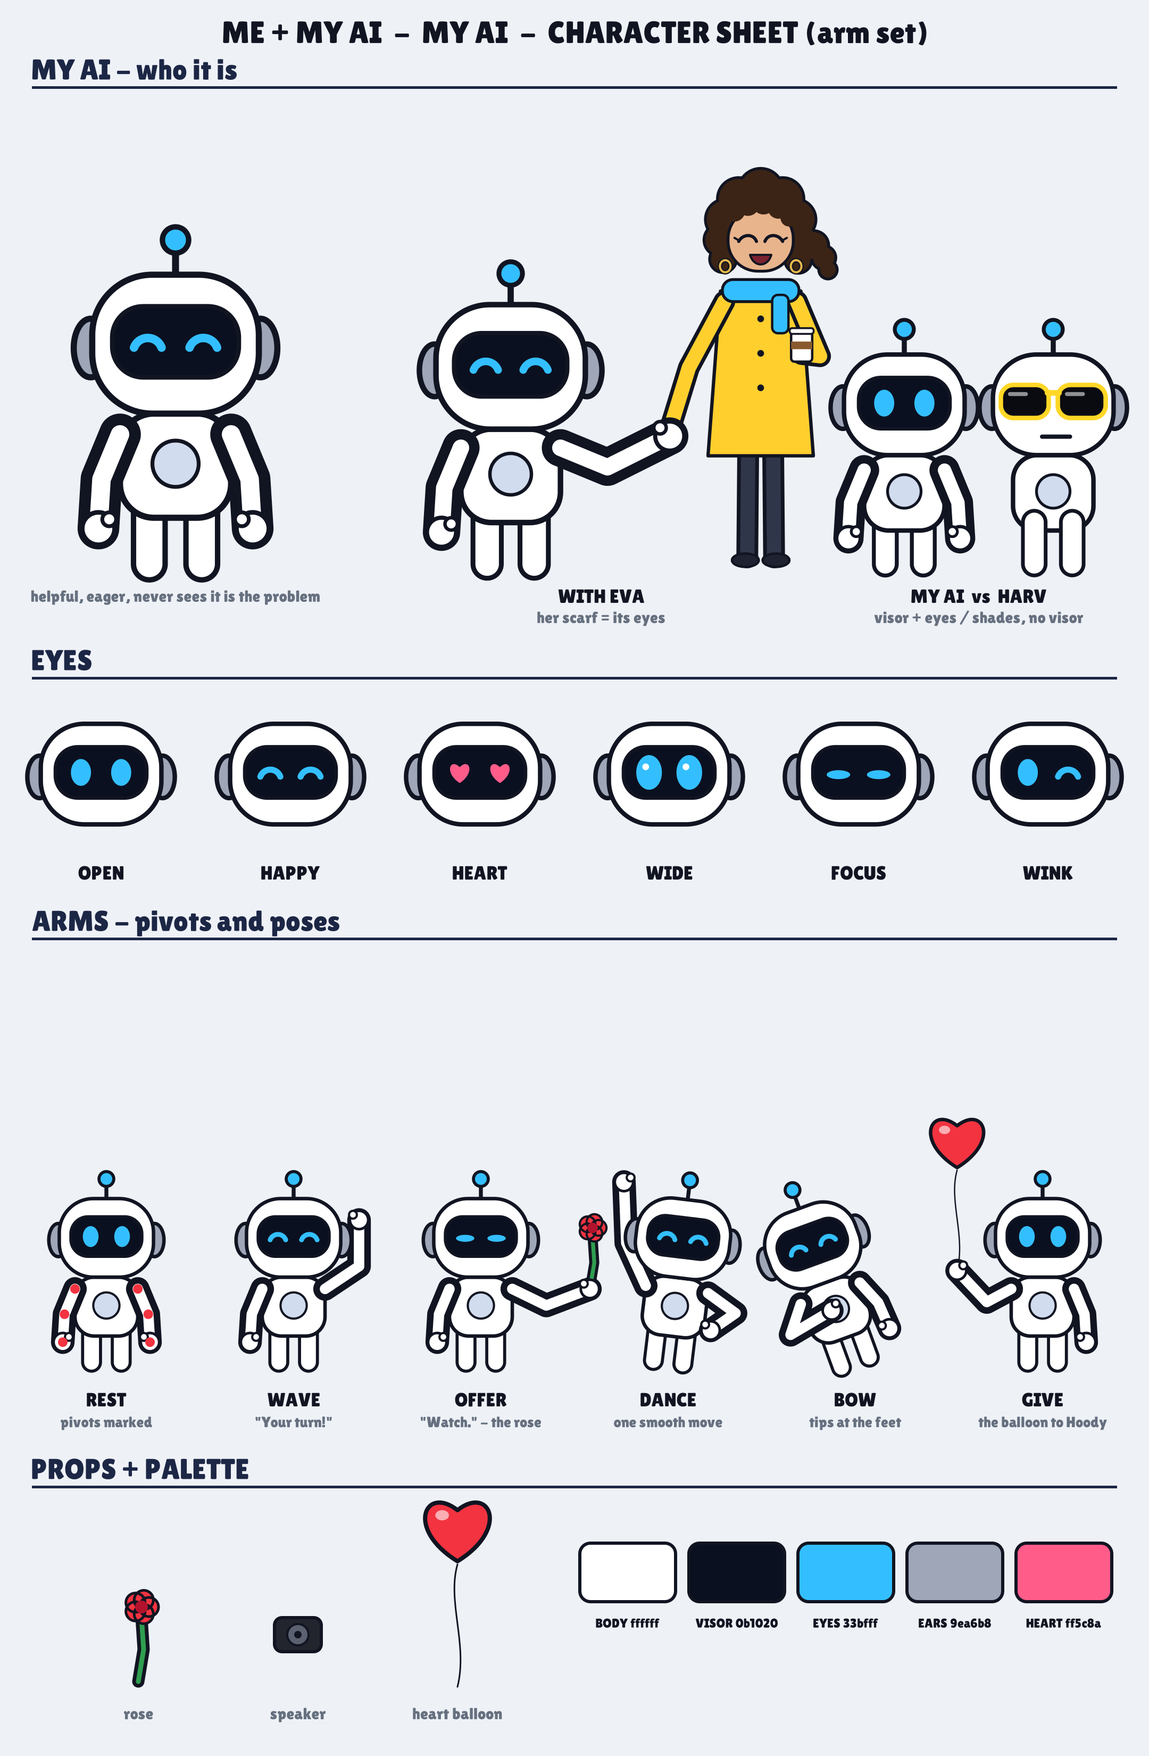
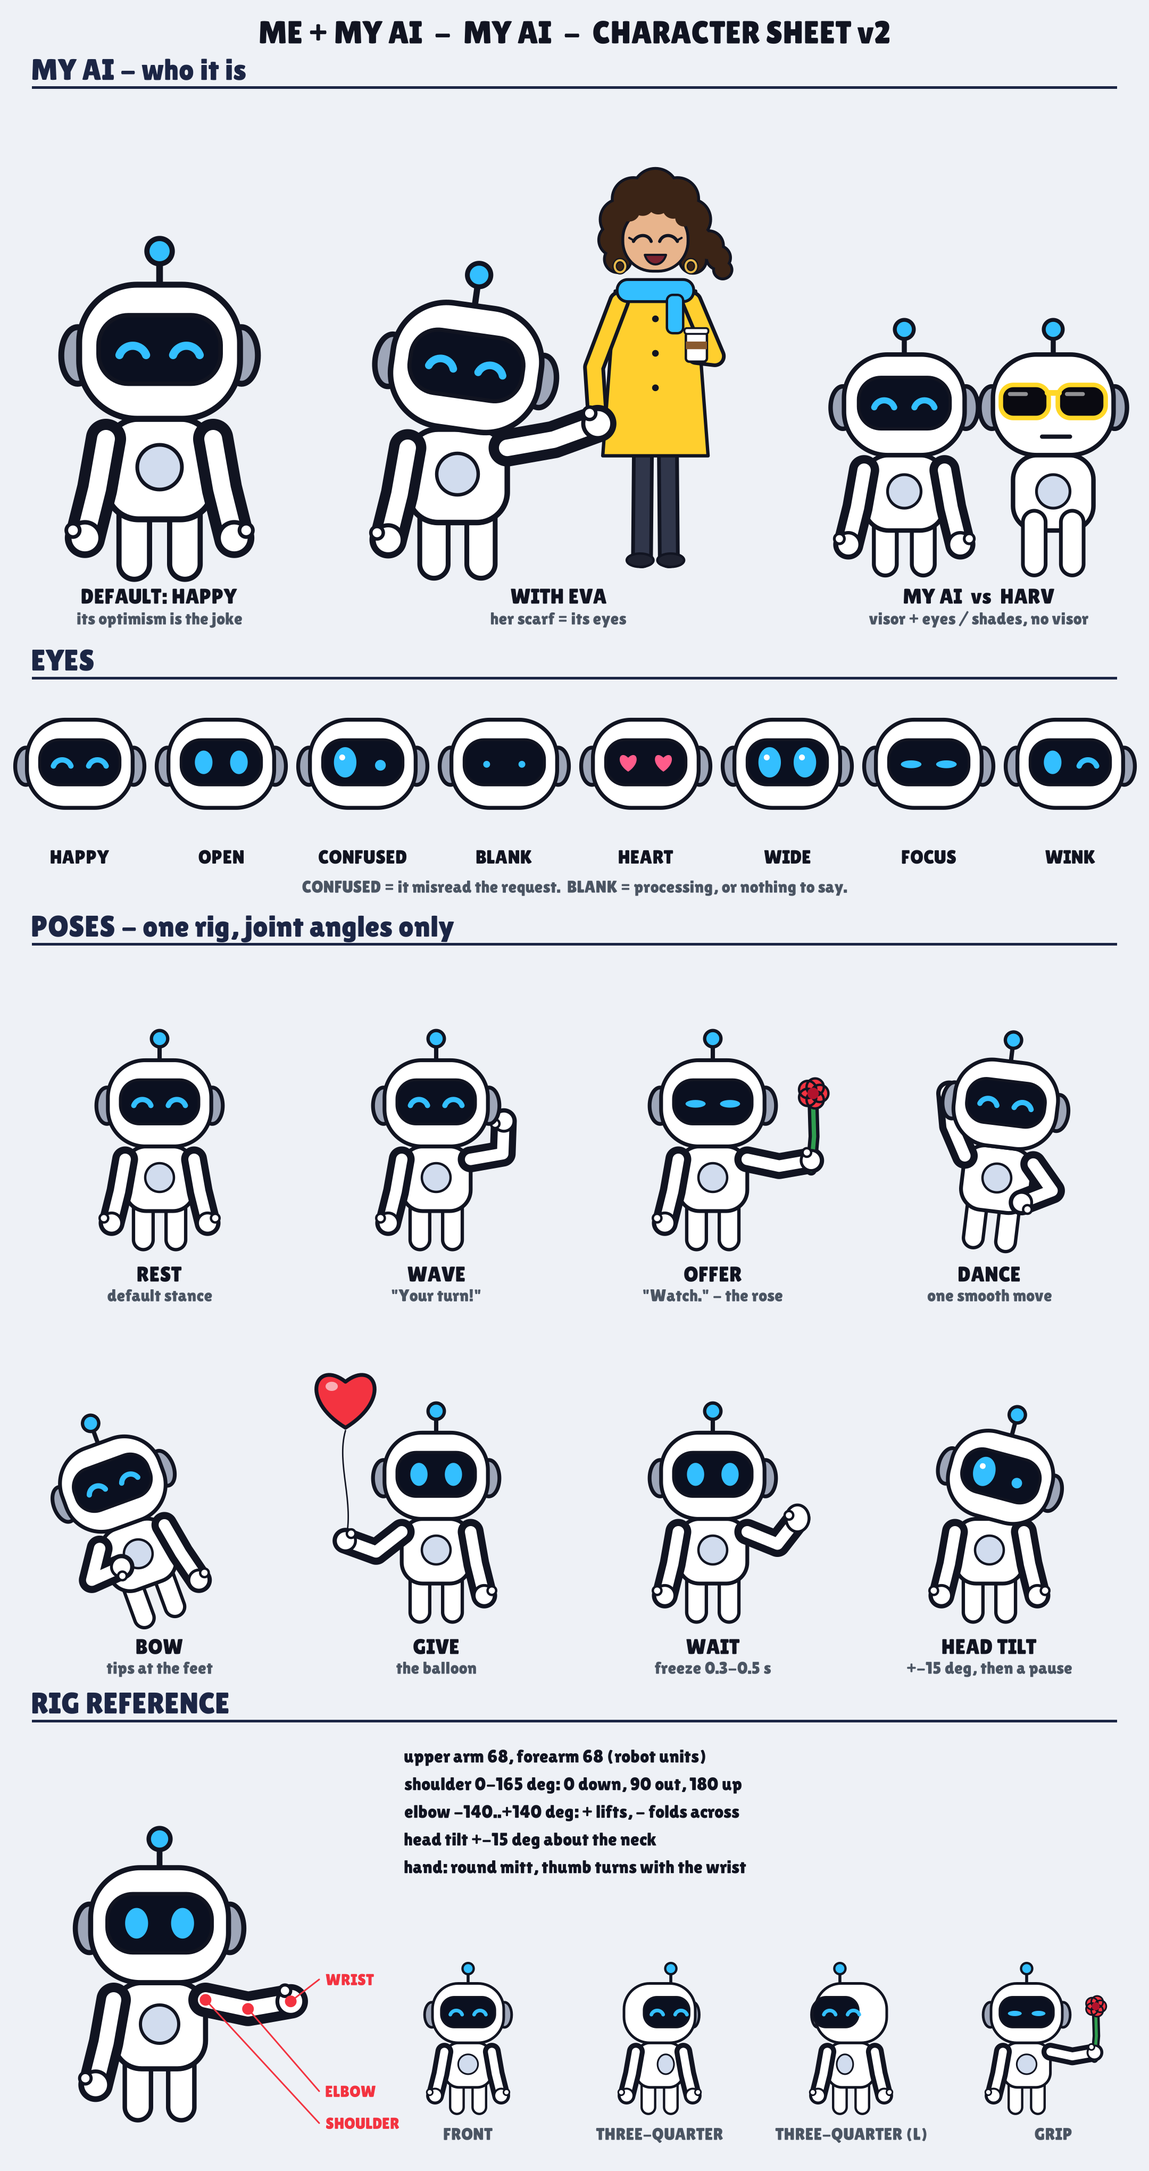
MY AI v2: a fixed arm rig, confused and blank eyes, head tilt, wait pose, three-quarter turn
From an outside review, plus a fault it pointed to: v1 placed each elbow and hand by hand, so
total arm length ran 127-247 units across poses. v2 is a two-segment rig (68 + 68) posed by joint
angles with limits (shoulder 0-165, elbow -140..140, head tilt +-15), so every pose is 136.
Adds CONFUSED and BLANK eyes, WAIT and HEAD TILT poses, a three-quarter turn, a rig reference with
joints and limits, and a grip example. Eva's hand-hold now lands exactly on his hand (hand_to).

Claude-Session: https://claude.ai/code/session_01ED8DLRS3kXn1pdhXqYBM3Q

diff --git a/perfect-date/characters/myai.py b/perfect-date/characters/myai.py
@@ -1,6 +1,8 @@
-"""MY AI - Hoody's companion robot, with the arm set Perfect Date needs.
-Body, head and legs are the robot from whos-a-good-boy/v3/v.py (same proportions and colours); arms, eye shapes and props are new.
-All poses use fixed pivots in robot units: shoulders at (+-72, 112), elbow, hand. Writes myai_sheet.png."""
+"""MY AI v2 - Hoody's companion robot, with the arm set Perfect Date needs.
+Body, head and legs are the robot from whos-a-good-boy/v3/v.py (same proportions and colours).
+v2: arms are a fixed two-segment rig (upper arm 68, forearm 68, from shoulders at +-72, 112), posed by joint angles,
+so arm length can't drift between shots; CONFUSED and BLANK eyes; head tilt; a WAIT pose; a three-quarter turn.
+Writes myai_sheet.png."""
 import os, sys, math, cairo
 HERE = os.path.dirname(os.path.abspath(__file__)); ROOT = os.path.join(HERE, '..', '..')
 sys.path.insert(0, os.path.join(HERE, '..')); sys.path.insert(0, HERE)
@@ -9,28 +11,43 @@ from kit import INK, WHITE, NAVY, RED, rr, fs, ell, limb, txt, hx
 import eva as E
 
 EYE = hx('33bfff'); VISOR = hx('0b1020'); EARS = (.62, .65, .72); CHEST = (.82, .86, .93); PINK = hx('ff5c8a')
-SHOULDER = 72, 112
-ARM_W = 24
-POSES = {   # per side, for q = +1 (the robot's left = screen right); x is mirrored by q
-    'down':  ((96, 170), (100, 234)),
-    'wave':  ((150, 60), (150, -46)),
-    'offer': ((150, 150), (250, 112)),
-    'up':    ((128, 20), (150, -118)),
-    'hip':   ((140, 150), (88, 196)),
-    'hold':  ((132, 184), (204, 226)),
-    'give':  ((128, 142), (196, 70)),
-    'chest': ((118, 170), (10, 150)),
-    'hold2': ((140, 140), (230, 95)),
+SHOULDER = (72, 112); L1 = L2 = 68; ARM_W = 24; HAND_R = 21
+NECK = (0, 85)                       # the head tilts about this point
+LIMITS = dict(shoulder=(0, 165), elbow=(-140, 140), tilt=(-15, 15))
+# pose = (shoulder angle, elbow bend) in degrees. Shoulder: 0 = arm straight down, 90 = straight out to the side,
+# 180 = straight up. Elbow: bend relative to the upper arm; + lifts the forearm outward/up, - folds it back across the body.
+POSES = {
+    'down':  (10, 4),     'hold':  (34, 8),     'hold2': (100, 10),
+    'offer': (78, 22),    'give':  (52, 58),    'wave':  (100, 78),
+    'wait':  (68, 74),    'up':    (150, 18),   'hip':   (42, -104),
+    'chest': (34, -128),
 }
+
+def arm_points(q, pose):
+    a1, a2 = POSES[pose] if isinstance(pose, str) else pose
+    a1 = max(LIMITS['shoulder'][0], min(LIMITS['shoulder'][1], a1)); a2 = max(LIMITS['elbow'][0], min(LIMITS['elbow'][1], a2))
+    t1 = math.radians(a1); t2 = math.radians(a1 + a2)
+    sx, sy = q * SHOULDER[0], SHOULDER[1]
+    ex, ey = sx + q * L1 * math.sin(t1), sy + L1 * math.cos(t1)
+    hx_, hy = ex + q * L2 * math.sin(t2), ey + L2 * math.cos(t2)
+    return (sx, sy), (ex, ey), (hx_, hy), t2
+
+def hand_at(x, gy, s, q, pose):
+    """Screen position of a hand, for lining up props and other characters (e.g. Eva's hand in his)."""
+    _, _, (hx_, hy), _ = arm_points(q, pose)
+    return x + hx_ * s, gy - 280 * s + hy * s
 
 def eyes(c, mode, look=(0, 0)):
     gx, gy = look
     for q in (-1, 1):
         m = mode
         if mode == 'wink': m = 'happy' if q == 1 else 'open'
+        if mode == 'confused': m = 'wide' if q == -1 else 'small'
         x, y = q * 36 + gx, -8 + gy
         if m == 'open':  ell(c, x, y, 18, 24); c.set_source_rgb(*EYE); c.fill()
         elif m == 'wide': ell(c, x, y, 23, 31); c.set_source_rgb(*EYE); c.fill(); ell(c, x - 6, y - 10, 6, 6); c.set_source_rgb(1, 1, 1); c.fill()
+        elif m == 'small': ell(c, x, y + 6, 11, 11); c.set_source_rgb(*EYE); c.fill()
+        elif m == 'blank': ell(c, x, y + 4, 7, 7); c.set_source_rgb(*EYE); c.fill()
         elif m == 'focus': ell(c, x, y + 4, 21, 8); c.set_source_rgb(*EYE); c.fill()
         elif m == 'happy':
             c.arc(x, y + 14, 19, math.pi + .35, 2 * math.pi - .35); c.set_source_rgb(*EYE); c.set_line_width(11); c.set_line_cap(cairo.LINE_CAP_ROUND); c.stroke()
@@ -39,36 +56,48 @@ def eyes(c, mode, look=(0, 0)):
             c.move_to(0, 18); c.curve_to(-30, -2, -18, -30, 0, -12); c.curve_to(18, -30, 30, -2, 0, 18); c.close_path()
             c.set_source_rgb(*PINK); c.fill(); c.restore()
 
-def arm(c, q, pose, prop=None):
-    (ex, ey), (hx_, hy) = POSES[pose]
-    sx, sy = q * SHOULDER[0], SHOULDER[1]
-    pts = [(sx, sy), (q * ex, ey), (q * hx_, hy)]
-    limb(c, pts, ARM_W + 16, INK); limb(c, pts, ARM_W, WHITE)
-    if prop: prop(c, q * hx_, hy, q)
-    ell(c, q * hx_, hy, 21, 21); fs(c, WHITE, 6)
-    ell(c, q * hx_ - q * 14, hy - 12, 9, 9); fs(c, WHITE, 5)                # thumb nub
-    return q * hx_, hy
+def hand(c, x, y, t2, q, open_=False):
+    """Round mitt; the thumb nub sits off the forearm's line, so it turns with the wrist."""
+    if open_: ell(c, x, y, HAND_R + 3, HAND_R + 7)
+    else: ell(c, x, y, HAND_R, HAND_R)
+    fs(c, WHITE, 6)
+    tx, ty = x + q * math.cos(t2) * 18 - q * math.sin(t2) * 6, y - math.sin(t2) * 18 * q * q - math.cos(t2) * 6
+    ell(c, tx, ty, 9, 9); fs(c, WHITE, 5)
 
-def myai(c, x, gy, s, eye='open', look=(0, 0), arms=('down', 'down'), props=(None, None), rot=0, walk=None, bob=0):
-    """Standing on ground y. arms = (screen-left arm pose, screen-right arm pose). rot tips the whole robot about its feet (a bow is -.35)."""
+def arm(c, q, pose, prop=None):
+    s_, e_, h_, t2 = arm_points(q, pose)
+    limb(c, [s_, e_, h_], ARM_W + 16, INK); limb(c, [s_, e_, h_], ARM_W, WHITE)
+    if prop: prop(c, h_[0], h_[1], q)
+    hand(c, *h_, t2, q, open_=(pose == 'wait'))
+    return h_
+
+def myai(c, x, gy, s, eye='happy', look=(0, 0), arms=('down', 'down'), props=(None, None), rot=0, walk=None, bob=0, tilt=0, turn=0):
+    """Standing on ground y. arms = (screen-left pose, screen-right pose). rot tips the whole robot about its feet (bow: -.35).
+    tilt: head tilt in degrees (limit +-15). turn: -1..1, a three-quarter turn (visor and antenna slide, far ear hides)."""
+    tilt = max(LIMITS['tilt'][0], min(LIMITS['tilt'][1], tilt))
     c.save(); c.translate(x, gy); c.rotate(rot); c.translate(0, -280 * s - bob); c.scale(s, s); c.set_line_cap(cairo.LINE_CAP_ROUND)
     a = math.sin(walk) * 26 if walk is not None else 0
     limb(c, [(-34, 205), (-34 - a, 280)], 34, WHITE); limb(c, [(34, 205), (34 + a, 280)], 34, WHITE)
     rr(c, -72, 85, 144, 135, 44); fs(c, WHITE)
-    ell(c, 0, 150, 30, 30); fs(c, CHEST, 5)
-    hands = [arm(c, q, p, pr) for q, p, pr in zip((-1, 1), arms, props)]
-    c.move_to(0, -90); c.line_to(0, -132); c.set_source_rgb(*INK); c.set_line_width(9); c.stroke()
-    ell(c, 0, -140, 17, 17); fs(c, EYE, 7)
-    for q in (-1, 1): ell(c, q * 110, 0, 22, 38); fs(c, EARS, 8)
+    ell(c, turn * 22, 150, 30 - abs(turn) * 6, 30); fs(c, CHEST, 5)
+    for q, p, pr in zip((-1, 1), arms, props): arm(c, q, p, pr)
+    c.save(); c.translate(*NECK); c.rotate(math.radians(tilt)); c.translate(-NECK[0], -NECK[1])
+    ax = turn * 40
+    c.move_to(ax, -90); c.line_to(ax, -132); c.set_source_rgb(*INK); c.set_line_width(9); c.stroke()
+    ell(c, ax, -140, 17, 17); fs(c, EYE, 7)
+    for q in (-1, 1):
+        if turn * q < -.5: continue                                  # far ear hidden in a three-quarter view
+        ell(c, q * 110 - turn * 10, 0, 22 - abs(turn) * 4 * (q == (1 if turn > 0 else -1)), 38); fs(c, EARS, 8)
     rr(c, -108, -95, 216, 180, 78); fs(c, WHITE)
-    rr(c, -82, -54, 164, 92, 40); fs(c, VISOR, 6)
-    eyes(c, eye, look)
-    c.restore()
+    vx = turn * 40
+    rr(c, -82 + vx, -54, 164 - abs(turn) * 30, 92, 40); fs(c, VISOR, 6)
+    eyes(c, eye, (look[0] + turn * 34, look[1]))
+    c.restore(); c.restore()
 
 # ---------------- props ----------------
 def rose(c, x, y, q=1):
-    limb(c, [(x, y), (x + q * 10, y - 60), (x + q * 6, y - 120)], 9, hx('2f9e4f'))
-    c.save(); c.translate(x + q * 6, y - 140)
+    limb(c, [(x, y + 20), (x + q * 6, y - 50), (x + q * 4, y - 120)], 9, hx('2f9e4f'))
+    c.save(); c.translate(x + q * 4, y - 140)
     for i in range(5): a = i * 2 * math.pi / 5; ell(c, 14 * math.cos(a), 14 * math.sin(a), 18, 18)
     c.set_source_rgb(*RED); c.fill_preserve(); c.set_source_rgb(*INK); c.set_line_width(5); c.stroke()
     ell(c, 0, 0, 12, 12); c.set_source_rgb(*hx('b3122c')); c.fill(); c.restore()
@@ -82,59 +111,79 @@ def balloon(c, x, y, q=1):
     fs(c, RED, 5); ell(c, -18, -14, 8, 6); c.set_source_rgba(1, 1, 1, .6); c.fill(); c.restore()
 
 # ---------------- the sheet ----------------
-def label(c, s, x, y, size=38, col=INK): txt(c, s, x, y, size, col, lw=0)
-def section(c, s, y): txt(c, s, 60, y, 54, NAVY, lw=0, align='l'); c.rectangle(60, y + 32, 2040, 5); c.set_source_rgb(*NAVY); c.fill()
+GREYT = hx('4b5563')
+def label(c, s, x, y, size=40, col=INK): txt(c, s, x, y, size, col, lw=0)
+def sub(c, s, x, y): txt(c, s, x, y, 32, GREYT, lw=0)
+def section(c, s, y): txt(c, s, 60, y, 56, NAVY, lw=0, align='l'); c.rectangle(60, y + 32, 2040, 5); c.set_source_rgb(*NAVY); c.fill()
 
 def sheet(out='myai_sheet.png'):
-    W, H = 2160, 3300
+    W, H = 2160, 4080
     S = cairo.ImageSurface(cairo.FORMAT_RGB24, W, H); c = cairo.Context(S)
     c.set_source_rgb(*hx('eef1f6')); c.paint()
-    txt(c, 'ME + MY AI  -  MY AI  -  CHARACTER SHEET (arm set)', 1080, 60, 58, INK, lw=0)
+    txt(c, 'ME + MY AI  -  MY AI  -  CHARACTER SHEET v2', 1080, 60, 60, INK, lw=0)
     v9 = E.load_wgb(); import v as WV
 
     section(c, 'MY AI - who it is', 130)
-    myai(c, 330, 1060, 1.45, eye='happy')
-    label(c, 'helpful, eager, never sees it is the problem', 330, 1120, 30, hx('66707f'))
-    rs = 1.3; rx = 960; hand = (rx + 230 * rs, 1060 - 280 * rs + 95 * rs)            # hand in hand: her hand lands on his
-    E.eva(c, hand[0] + 190 * .9, 1060, .9, 'charmed', sip=.1, pose='holdlow')
-    myai(c, rx, 1060, rs, eye='happy', arms=('down', 'hold2'))
-    label(c, 'WITH EVA', 1130, 1120, 36); label(c, 'her scarf = its eyes', 1130, 1160, 30, hx('66707f'))
+    myai(c, 300, 1060, 1.4, eye='happy')
+    label(c, 'DEFAULT: HAPPY', 300, 1120); sub(c, 'its optimism is the joke', 300, 1162)
+    rs = 1.3; rx = 860; hp = hand_at(rx, 1060, rs, 1, 'hold2')                        # hand in hand: hers lands on his
+    E.eva(c, hp[0] + 40 + 76 * .9, 1060, .9, 'charmed', sip=.1, pose='holdlow', hand_to=hp)
+    myai(c, rx, 1060, rs, eye='happy', arms=('down', 'hold2'), tilt=8)
+    label(c, 'WITH EVA', 1050, 1120); sub(c, 'her scarf = its eyes', 1050, 1162)
     myai(c, 1700, 1060, 1.05); WV.robot(c, 1980, 1060 - 280 * 1.05, 1.05, boss=True)
-    my = 1060 - 280 * 1.05 + 52 * 1.05                                               # HARV never smiles: flat mouth
+    limb(c, [(1980 - 34 * 1.05, 1060 - 75 * 1.05), (1980 - 34 * 1.05, 1060)], 34 * 1.05, WHITE); limb(c, [(1980 + 34 * 1.05, 1060 - 75 * 1.05), (1980 + 34 * 1.05, 1060)], 34 * 1.05, WHITE)
+    my = 1060 - 280 * 1.05 + 52 * 1.05
     rr(c, 1980 - 26 * 1.05, my - 16 * 1.05, 70 * 1.05, 30 * 1.05, 8); c.set_source_rgb(*WHITE); c.fill()
     c.move_to(1980 - 20 * 1.05, my); c.line_to(1980 + 30 * 1.05, my); c.set_source_rgb(*INK); c.set_line_width(8); c.stroke()
-    limb(c, [(1980 - 34 * 1.05, 1060 - 75 * 1.05), (1980 - 34 * 1.05, 1060)], 34 * 1.05, WHITE); limb(c, [(1980 + 34 * 1.05, 1060 - 75 * 1.05), (1980 + 34 * 1.05, 1060)], 34 * 1.05, WHITE)
-    label(c, 'MY AI  vs  HARV', 1840, 1120, 36); label(c, 'visor + eyes / shades, no visor', 1840, 1160, 30, hx('66707f'))
+    label(c, 'MY AI  vs  HARV', 1840, 1120); sub(c, 'visor + eyes / shades, no visor', 1840, 1162)
 
     section(c, 'EYES', 1240)
-    for i, (m, a) in enumerate([('open', 'OPEN'), ('happy', 'HAPPY'), ('heart', 'HEART'), ('wide', 'WIDE'), ('focus', 'FOCUS'), ('wink', 'WINK')]):
-        x = 190 + i * 356
-        c.save(); c.translate(x, 1460); c.scale(1.05, 1.05)
+    for i, (m, a) in enumerate([('happy', 'HAPPY'), ('open', 'OPEN'), ('confused', 'CONFUSED'), ('blank', 'BLANK'),
+                                ('heart', 'HEART'), ('wide', 'WIDE'), ('focus', 'FOCUS'), ('wink', 'WINK')]):
+        x = 150 + i * 266
+        c.save(); c.translate(x, 1440); c.scale(.92, .92)
         for q in (-1, 1): ell(c, q * 110, 0, 22, 38); fs(c, EARS, 8)
         rr(c, -108, -95, 216, 180, 78); fs(c, WHITE); rr(c, -82, -54, 164, 92, 40); fs(c, VISOR, 6); eyes(c, m); c.restore()
-        label(c, a, x, 1640, 36)
+        label(c, a, x, 1610, 36)
+    sub(c, 'CONFUSED = it misread the request.  BLANK = processing, or nothing to say.', 1080, 1666)
 
-    section(c, 'ARMS - pivots and poses', 1730)
-    P = [(('down', 'down'), 'open', (None, None), 0, 'REST', 'pivots marked'),
-         (('down', 'wave'), 'happy', (None, None), 0, 'WAVE', '"Your turn!"'),
-         (('down', 'offer'), 'focus', (None, rose), 0, 'OFFER', '"Watch." - the rose'),
-         (('up', 'hip'), 'happy', (None, None), .12, 'DANCE', 'one smooth move'),
-         (('chest', 'down'), 'happy', (None, None), -.35, 'BOW', 'tips at the feet'),
-         (('give', 'down'), 'open', (balloon, None), 0, 'GIVE', 'the balloon to Hoody')]
-    for i, (arms, e, pr, rot, a, b) in enumerate(P):
-        x = 200 + i * 352
-        myai(c, x, 2560, .82, eye=e, arms=arms, props=pr, rot=rot)
-        if i == 0:
-            for (px, py) in ((-72, 112), (72, 112), (-96, 170), (96, 170), (-100, 234), (100, 234)):
-                ell(c, x + px * .82, 2560 - 280 * .82 + py * .82, 9, 9); c.set_source_rgb(*RED); c.fill()
-        label(c, a, x, 2630, 36); label(c, b, x, 2672, 28, hx('66707f'))
+    section(c, 'POSES - one rig, joint angles only', 1740)
+    P = [(('down', 'down'), 'happy', (None, None), 0, 0, 'REST', 'default stance'),
+         (('down', 'wave'), 'happy', (None, None), 0, 0, 'WAVE', '"Your turn!"'),
+         (('down', 'offer'), 'focus', (None, rose), 0, 0, 'OFFER', '"Watch." - the rose'),
+         (('up', 'hip'), 'happy', (None, None), .12, 0, 'DANCE', 'one smooth move'),
+         (('chest', 'down'), 'happy', (None, None), -.35, 0, 'BOW', 'tips at the feet'),
+         (('give', 'down'), 'open', (balloon, None), 0, 0, 'GIVE', 'the balloon'),
+         (('down', 'wait'), 'open', (None, None), 0, 0, 'WAIT', 'freeze 0.3-0.5 s'),
+         (('down', 'down'), 'confused', (None, None), 0, 15, 'HEAD TILT', '+-15 deg, then a pause')]
+    for i, (arms, e, pr, rot, tl, a, b) in enumerate(P):
+        col, row = i % 4, i // 4
+        x = 300 + col * 520; gy = 2330 + row * 700
+        myai(c, x, gy, .9, eye=e, arms=arms, props=pr, rot=rot, tilt=tl)
+        label(c, a, x, gy + 64); sub(c, b, x, gy + 104)
 
-    section(c, 'PROPS + PALETTE', 2760)
-    rose(c, 260, 3160); label(c, 'rose', 260, 3220, 30, hx('66707f'))
-    speaker(c, 560, 3080); label(c, 'speaker', 560, 3220, 30, hx('66707f'))
-    balloon(c, 860, 3170); label(c, 'heart balloon', 860, 3220, 30, hx('66707f'))
-    for i, (col, n) in enumerate([(WHITE, 'BODY ffffff'), (VISOR, 'VISOR 0b1020'), (EYE, 'EYES 33bfff'), (EARS, 'EARS 9ea6b8'), (PINK, 'HEART ff5c8a')]):
-        x = 1180 + i * 205; rr(c, x - 90, 2900, 180, 110, 20); fs(c, col, 6); label(c, n, x, 3050, 24)
+    section(c, 'RIG REFERENCE', 3200)
+    s = 1.2; x0, gy = 300, 3960
+    myai(c, x0, gy, s, eye='open', arms=('down', 'offer'))
+    (sx, sy), (ex, ey), (hx_, hy), _ = arm_points(1, 'offer')
+    oy = gy - 280 * s
+    for (px, py), n in (((sx, sy), 'SHOULDER'), ((ex, ey), 'ELBOW'), ((hx_, hy), 'WRIST')):
+        ell(c, x0 + px * s, oy + py * s, 11, 11); c.set_source_rgb(*RED); c.fill()
+        pass
+    for (px, py), n, ly in (((hx_, hy), 'WRIST', 3720), ((ex, ey), 'ELBOW', 3930), ((sx, sy), 'SHOULDER', 3990)):
+        X, Y = x0 + px * s, oy + py * s                     # labels in a column to the right, leader lines to the joints
+        c.move_to(X, Y); c.line_to(600, ly); c.set_source_rgb(*RED); c.set_line_width(3); c.stroke()
+        txt(c, n, 612, ly, 30, RED, lw=0, align='l')
+    for i, t in enumerate(['upper arm 68, forearm 68 (robot units)', 'shoulder 0-165 deg: 0 down, 90 out, 180 up',
+                           'elbow -140..+140 deg: + lifts, - folds across', 'head tilt +-15 deg about the neck',
+                           'hand: round mitt, thumb turns with the wrist']):
+        txt(c, t, 760, 3300 + i * 52, 34, INK, lw=0, align='l')
+    for i, (tn, n) in enumerate([(0, 'FRONT'), (.85, 'THREE-QUARTER'), (-.85, 'THREE-QUARTER (L)')]):
+        x = 880 + i * 360
+        myai(c, x, 3960, .62, eye='happy', turn=tn, arms=('down', 'down'))
+        sub(c, n, x, 4010)
+    gx = 1980; myai(c, gx - 50, 3960, .62, eye='focus', arms=('down', 'offer'), props=(None, rose))
+    sub(c, 'GRIP', gx, 4010)
     S.write_to_png(os.path.join(HERE, out))
 
 if __name__ == '__main__':

diff --git a/perfect-date/characters/eva.py b/perfect-date/characters/eva.py
@@ -60,7 +60,7 @@ def coffee(c, x, y, s):
     c.rectangle(x - 22 * s, y - 30 * s, 44 * s, 16 * s); c.set_source_rgb(*hx('8a5a2e')); c.fill()
     rr(c, x - 25 * s, y - 58 * s, 50 * s, 12 * s, 5 * s); fs(c, WHITE, max(3, 4 * s))
 
-def eva(c, x, gy, s, expr='evacalm', sip=0.0, gaze=0, tilt=0, leash=True, op=0, pose='coffee'):
+def eva(c, x, gy, s, expr='evacalm', sip=0.0, gaze=0, tilt=0, leash=True, op=0, pose='coffee', hand_to=None):
     """Full figure standing at ground y. sip 0 = cup at the waist, 1 = at the mouth. Returns the free hand (the leash hand).
     pose: coffee (default) | hip (free hand on the hip) | glance (sip, sideways look, one brow up) | reach (free hand out: takes a hand)"""
     if pose == 'glance': sip, gaze, tilt, expr = max(sip, .7), 16, .1, 'amused'
@@ -77,9 +77,10 @@ def eva(c, x, gy, s, expr='evacalm', sip=0.0, gaze=0, tilt=0, leash=True, op=0, 
     if pose == 'hip':
         lh = (x - 96 * s, hy + 318 * s)
         limb(c, [(x - 76 * s, hy + 142 * s), (x - 168 * s, hy + 236 * s), lh], 30 * s, COAT)
-    elif pose == 'holdlow':                                     # holding someone's hand at her side
-        lh = (x - 190 * s, hy + 410 * s)
-        limb(c, [(x - 76 * s, hy + 142 * s), (x - 150 * s, hy + 280 * s), lh], 30 * s, COAT)
+    elif pose == 'holdlow':                                     # holding someone's hand at her side (hand_to: where it lands)
+        sh = (x - 76 * s, hy + 142 * s); lh = hand_to or (x - 190 * s, hy + 410 * s)
+        el = ((sh[0] + lh[0]) / 2 - 30 * s, (sh[1] + lh[1]) / 2 + 10 * s)
+        limb(c, [sh, el, lh], 30 * s, COAT)
     elif pose == 'reach':
         lh = (x - 250 * s, hy + 236 * s)
         limb(c, [(x - 76 * s, hy + 142 * s), (x - 170 * s, hy + 214 * s), lh], 30 * s, COAT)

diff --git a/perfect-date/README.md b/perfect-date/README.md
@@ -4,7 +4,7 @@ ME + MY AI episode. Hoody asks his AI to help him impress Eva; the AI's demonstr
 Concept and character work only; nothing is built yet.
 
 - `characters/eva.py`: Eva v2 (gold hoops, a lash on every expression, the one-brow signature, four poses) and her dog. `python3 characters/eva.py` writes `characters/eva_sheet.png`
-- `characters/myai.py`: MY AI, his companion robot (body from `whos-a-good-boy/v3/v.py`) with the new arm set: fixed pivots (shoulders at ±72, 112), eight named poses, six eye shapes, and the rose, speaker and heart balloon. `python3 characters/myai.py` writes `characters/myai_sheet.png`
+- `characters/myai.py`: MY AI v2, his companion robot (body from `whos-a-good-boy/v3/v.py`). Arms are a fixed two-segment rig (upper arm 68, forearm 68, shoulders at ±72, 112) posed by joint angles within limits, so arm length cannot drift; ten named poses incl. WAIT; head tilt ±15°; a three-quarter turn; eight eye shapes incl. CONFUSED and BLANK; the rose, speaker and heart balloon. `python3 characters/myai.py` writes `characters/myai_sheet.png`
 - `kit.py`: a copy of the series drawing kit (from `says-here-boss/v3/`)
 
 **Eva** first appeared, unnamed, as the neighbour walking the red-collared dog in *Who's a Good Boy?* (`whos-a-good-boy/v3/v9.py`, `neighbor()`). v1 keeps that design (yellow coat, dark curls, coffee, the dog) and moves her onto the series face system. Her scarf is MY AI's eye colour (#33bfff).
